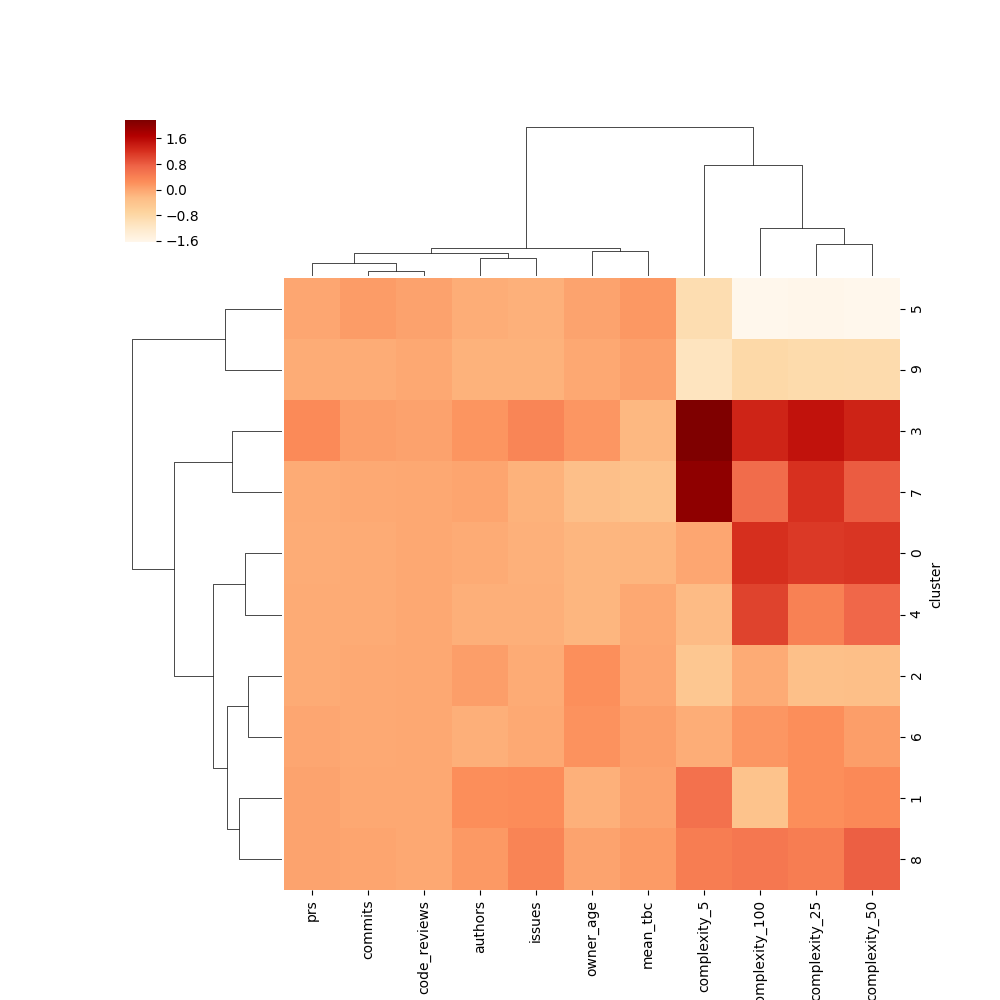
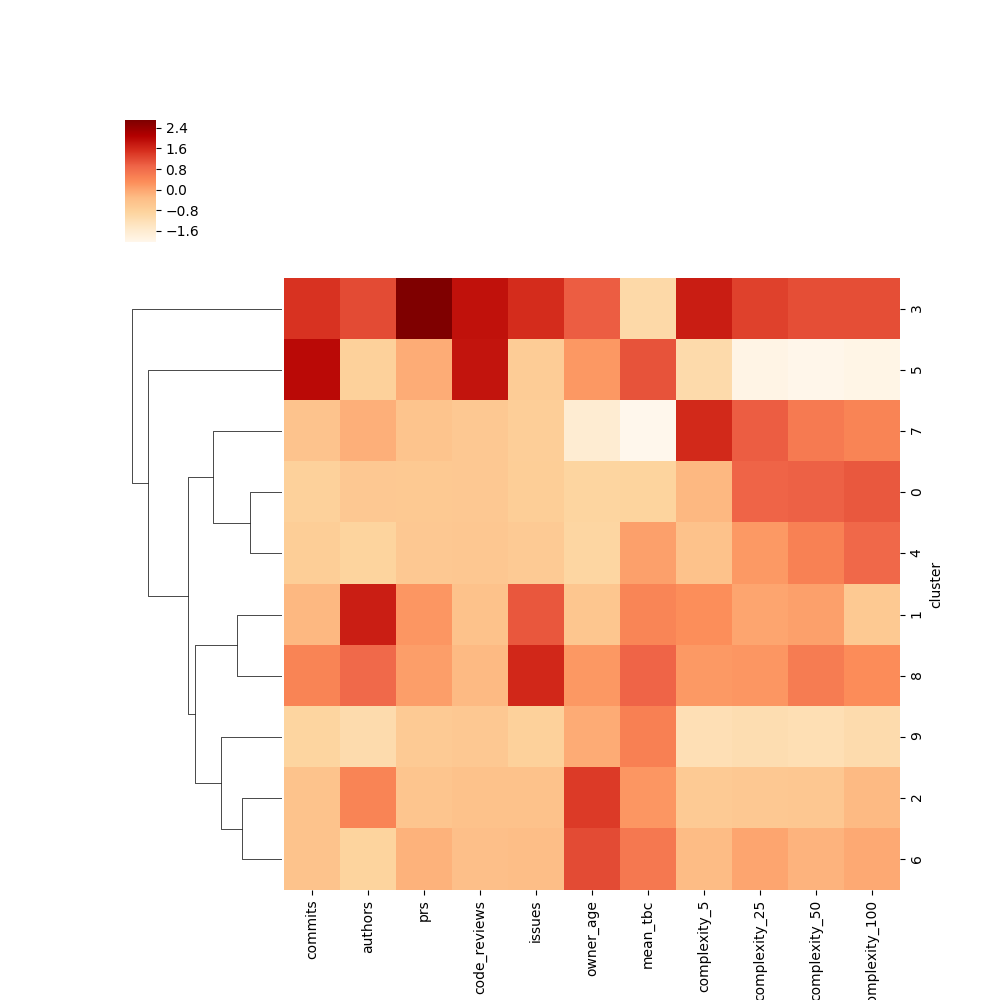
updates to make_dash visual

diff --git a/src/github_analysis/make_dash.py b/src/github_analysis/make_dash.py
@@ -96,13 +96,13 @@ class Heatmapper:
 
     def make_heatmap(self, output_path='./results/Report_VO.png'):
         # Normalize/Standardize
-        names = self.project_stats.drop('cluster', axis=1).columns
-        scaler = preprocessing.StandardScaler()
-        scaled_df = scaler.fit_transform(self.project_stats.drop('cluster', axis=1))
-        scaled_df = pd.DataFrame(scaled_df, columns=names, index=self.project_stats.index)
-        scaled_df = pd.merge(scaled_df, self.project_stats[['cluster']], left_index=True, right_index=True)
+        # names = self.project_stats.drop('cluster', axis=1).columns
+        # scaler = preprocessing.StandardScaler()
+        # scaled_df = scaler.fit_transform(self.project_stats.drop('cluster', axis=1))
+        # scaled_df = pd.DataFrame(scaled_df, columns=names, index=self.project_stats.index)
+        # scaled_df = pd.merge(scaled_df, self.project_stats[['cluster']], left_index=True, right_index=True)
 
-        sns.clustermap(scaled_df.groupby('cluster').mean(), cmap='OrRd')
+        sns.clustermap(self.project_stats.groupby('cluster').mean(),z_score=1,cmap='OrRd',col_cluster=False)#, cmap='RdYlGn')
         plt.savefig(output_path)
 
 
